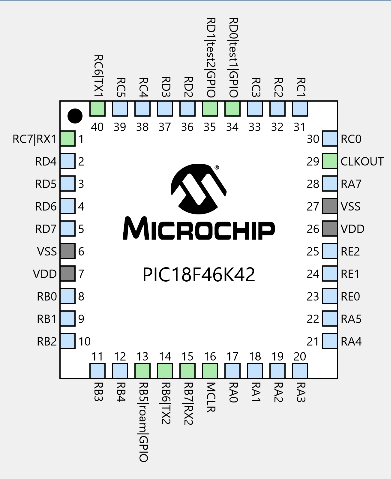
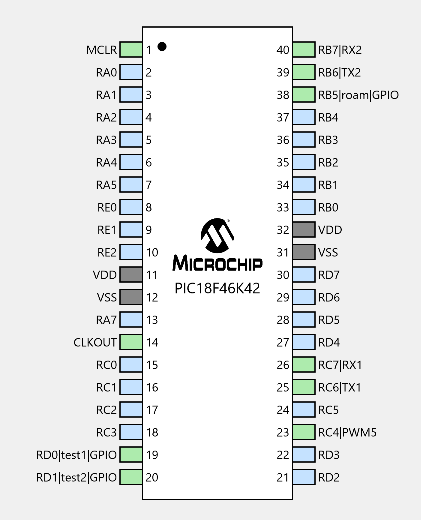
added menu update and DIP view of pins

Changed region(s): [[0.0307, 0.0292, 0.9821, 0.9645]]

diff --git a/README.pandoc.md b/README.pandoc.md
@@ -171,10 +171,6 @@ The initial goal was just to get the UART of the target PIC to talk to the UART 
 One can use a PuTTY terminal with the virtual serial port of the Xpress board. This works fine when one is typing into the 
 terminal. There is an issue though if one attempts pasting into the PuTTY terminal (using a right mouse click). In that case
 only the first character is sent. This is an issue of the USB to serial bridge on the Xpress board and not the PIC code!
-This was verified by using a USB to serial bridge on a different board (TTLyFTDI USB-to-TTL Cable Adapter) fed into RB7. In this case the code worked as expected
-and all pasted characters appeared in the PuTTY terminal and were correctly sent out uart1 TX.
-
-![uart1-uart2.jpg](images/uart1-uart2.jpg)
 
 Others have commented on the limitation of the USART to USB bridge on the Xpress board:
 

diff --git a/README.md b/README.md
@@ -230,12 +230,7 @@ board. This works fine when one is typing into the terminal. There is an
 issue though if one attempts pasting into the PuTTY terminal (using a
 right mouse click). In that case only the first character is sent. This
 is an issue of the USB to serial bridge on the Xpress board and not the
-PIC code\! This was verified by using a USB to serial bridge on a
-different board (TTLyFTDI USB-to-TTL Cable Adapter) fed into RB7. In
-this case the code worked as expected and all pasted characters appeared
-in the PuTTY terminal and were correctly sent out uart1 TX.
-
-![uart1-uart2.jpg](images/uart1-uart2.jpg)
+PIC code\!
 
 Others have commented on the limitation of the USART to USB bridge on
 the Xpress board:
